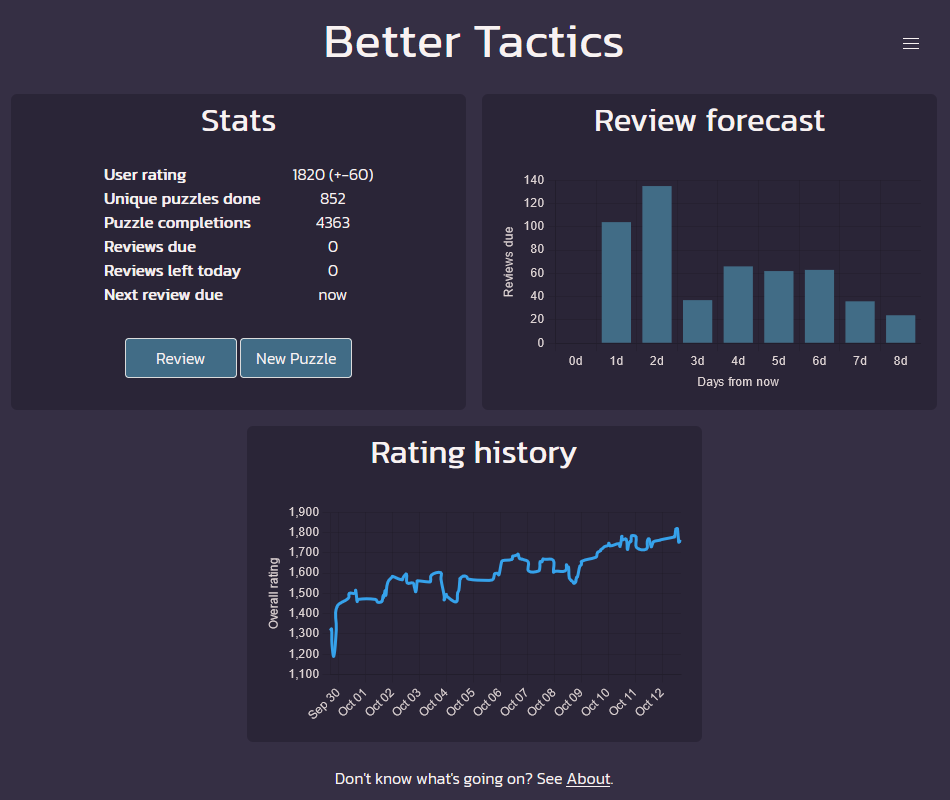
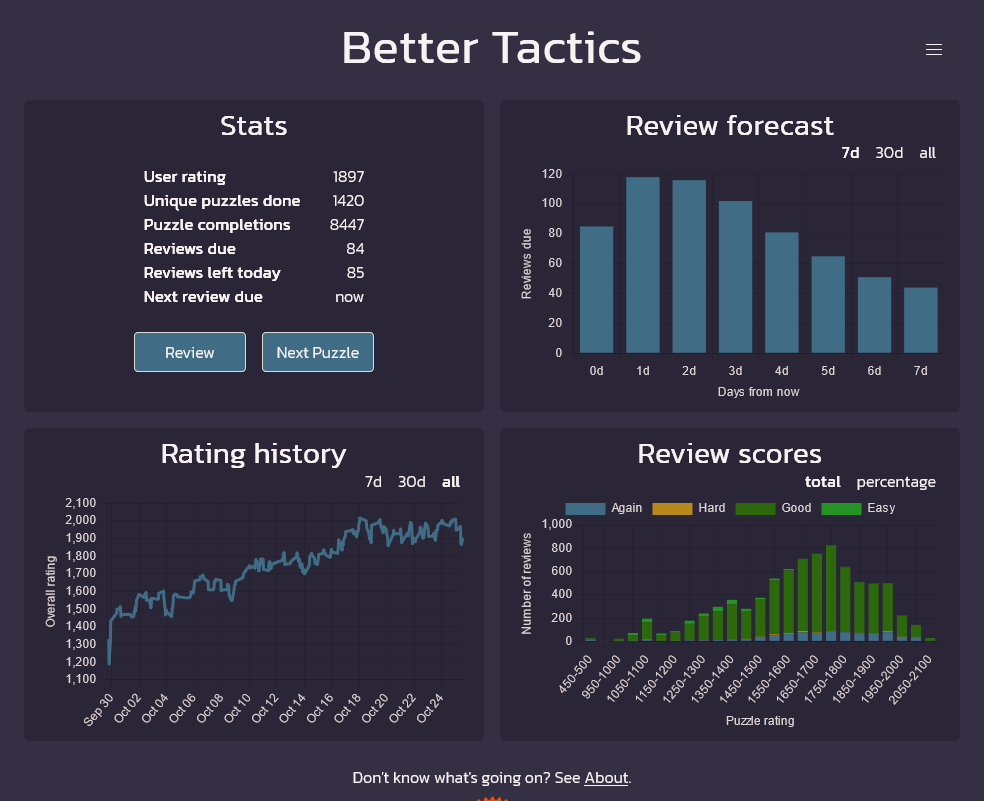
* Update better-tactics images and change the project image processing   to work a bit more sensibly. * Remove processed_images from source control, it doesn't delete the old   ones so they'll just accumulate over time otherwise. They get   generated automatically on build so there's no point in hav

diff --git a/templates/_project_info.html b/templates/_project_info.html
@@ -3,7 +3,7 @@
     <div class="project-images">
         {% for image_path in page.extra.images %}
             {% set thumbnail = resize_image(path=image_path, width=150, height=112,
-                op="fill", format="jpg", quality=100) %}
+                op="fit_height", format="jpg", quality=100) %}
             <a href="{{ image_path }}" target="_blank">
                 <img src="{{ thumbnail.url }}"></img>
             </a>

diff --git a/content/projects/better-tactics.md b/content/projects/better-tactics.md
@@ -8,11 +8,14 @@ download_link = "https://github.com/catchouli/better_tactics/releases/latest"
 images = [
     "/images/projects/better-tactics/1.png",
     "/images/projects/better-tactics/2.png",
-    "/images/projects/better-tactics/3.png"
+    "/images/projects/better-tactics/3.png",
+    "/images/projects/better-tactics/4.png",
+    "/images/projects/better-tactics/5.png",
+    "/images/projects/better-tactics/6.png",
 ]
 +++
 
-Better Tactics is a Chess tactics trainer that uses the concept of <a href="https://en.wikipedia.org/wiki/Spaced_repetition">Spaced Repetition</a> to help you master chess tactics. The idea is to help you gain calculation experience and tactical pattern recognition by repeating puzzles over time. Puzzles you've seen will get queued up for review daily, and puzzles you find hard will be repeated more frequently, while puzzles you find easy will be repeated far less often to make the process more efficient.
+Better Tactics is a Chess tactics trainer that uses the concept of <a href="https://en.wikipedia.org/wiki/Spaced_repetition">Spaced Repetition</a> to help you master chess tactics. The idea is to help you improve your tactical pattern recognition and gain experience calculating tactics, by repeating puzzles you've completed over time. Puzzles you complete will get queued up for review daily, and puzzles you find hard will be repeated more frequently, while puzzles you find easy will be repeated far less often to make the process more efficient.
 
 <!-- more -->
 
